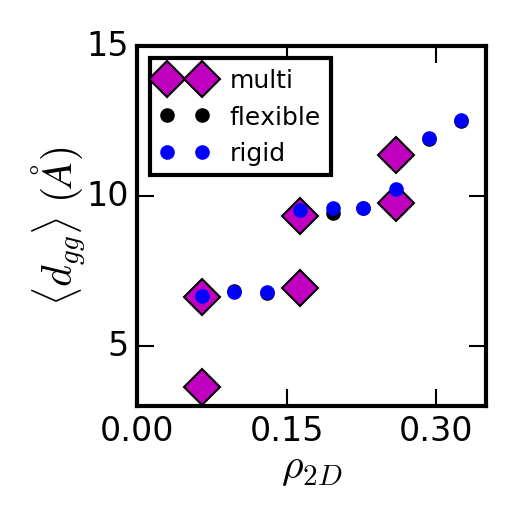
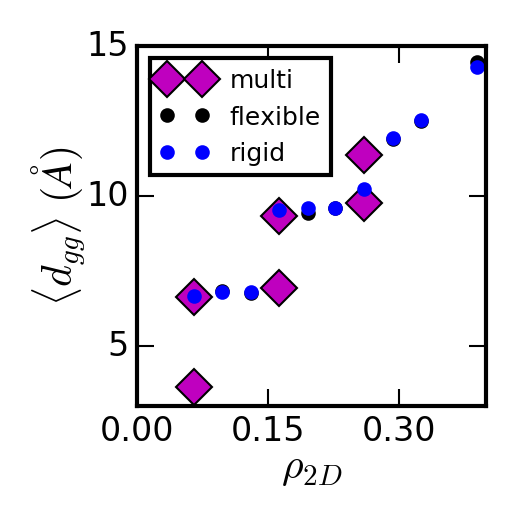
More work on plots etc

diff --git a/python/plot_gr.py b/python/plot_gr.py
@@ -14,12 +14,8 @@ def get_plt_lst(csv_nm):
     sep_siz = int(csv_nm.split("_")[3]); dim = csv_nm.split("_")[2]
     nfct = 1.0
     if sep_siz == 11: cls = [4, 7, 18, 36]
-   #elif sep_siz == 13: cls = [5, 8, 12, 13, 22, 25, 34, 45]
-    elif sep_siz == 14: cls = [2,19,29,38,4,7,8,11,12,23,24,] #27]
-    elif sep_siz == 16: cls = [3,6,7,11,14,19,31,32,40,46]
 
     # flexible
-   #elif sep_siz == 9:  cls = [2,4,15,28,30,32] #old flexible
     elif sep_siz == 91:  
          cls = [2,30]; nfct = 1.4
     elif sep_siz == 92:  
@@ -27,19 +23,19 @@ def get_plt_lst(csv_nm):
    #elif sep_siz == 10: cls = [4, 6, 7, 17, 18,]
    #elif sep_siz == 12: cls = [4,9,10,21,22,23,41] # for multi-layer gr
    #elif sep_siz == 12: cls = [21,41,]
-   #elif sep_siz == 141: cls =[2,7,8] # inner layer of 3L
-   #elif sep_siz == 142: cls =[19,29,38,4,11,23] # layer close to graph
-   #elif sep_siz == 161: cls =[3,11,14] #inner layer of 3/4
-   #elif sep_siz == 162: cls =[6,19,31,46] #layer near graph
 
     # rigid
     elif sep_siz == 9:  cls = [5,15,18,27]
     elif sep_siz == 10: cls = [3,4,5,14,]
    #elif sep_siz == 12: cls = [3,18,19,31,32,7,8,17,20,]
-    elif sep_siz == 141: cls =[2,7,8] # inner layer of 3L
-    elif sep_siz == 142: cls =[19,29,38,4,11,23] # layer close to graph
-    elif sep_siz == 161: cls =[4,10,15,35] #inner layer of 3/4
-    elif sep_siz == 162: cls =[6,7,18,19] #layer near graph
+
+    elif sep_siz == 131 or sep_siz == 141: cls =[5] # inner layer of 3L
+    elif sep_siz == 132 or sep_siz == 142: cls =[3,7] # layer close to graph
+    elif sep_siz == 161: cls =[5,7] #inner layer of 3/4
+    elif sep_siz == 162: cls =[3,9] #layer near graph
+    elif sep_siz == 20:  cls =[3,4,5,7] #inner layer of 3/4
+    elif sep_siz == 201: cls =[5,7] #inner layer of 3/4
+    elif sep_siz == 202: cls =[3,9] #layer near graph
 
     else: cls = [1] # dont have this sep size saved
     return cls, nfct
@@ -56,9 +52,7 @@ def plot_scatter(plt_nm, csvL, sep, ln):
            cls,nfct=get_plt_lst(csvL[i][j].csvfname); dat = csvL[i][j].dat
            fn = csvL[i][j].csvfname.split("_")
            mn += fn[3] + "_"; dn = int(fn[3])
-           cls = []; print(len(dat))
-           for k in range(1,len(dat)):
-               if max(dat[k]) <25.5 and sum(dat[k]) > 0.1: cls.append(k)
+          #cls = list(range(3,len(dat))); 
            ct=0; print(cls)
            for k in cls:
               #ax.plot(dat[0], dat[k], label="x="+csvL[i][j].key[k][1:-2], color = colorL[ct])
@@ -70,8 +64,8 @@ def plot_scatter(plt_nm, csvL, sep, ln):
            
            if dens[dn][2] == "--": dsh = (2,1)
            else:                   dsh = (None,None)
-          #ax.plot(dat[0], np.mean(dat[cls],axis=0)/nfct, dens[dn][2],
-          #        color = dens[dn][1], dashes = dsh, label=lg)
+           ax.plot(dat[0], np.mean(dat[cls],axis=0)/nfct, dens[dn][2],
+                   color = dens[dn][1], dashes = dsh, label=lg)
            ct += 1
     ax.legend(ncol = 3, columnspacing = 0.4,
         fontsize =  5 , handletextpad = 0.2,

diff --git a/python/plot_diffusion.py b/python/plot_diffusion.py
@@ -3,7 +3,7 @@ import numpy as np
 import matplotlib
 import matplotlib.pyplot as plt
 from matplotlib.ticker import *
-MaxNLocator.default_params['nbins']=3
+MaxNLocator.default_params['nbins']=2
 
 from csvfile import CSVFile
 from gauss_fits import skew, double, normal
@@ -19,20 +19,41 @@ def plot_scatter(csv):
     ax.yaxis.set_major_locator(MaxNLocator())
 
     dens  = csv.dat[csv.find_keyword('dens')].flatten(); 
-    rigid = csv.dat[csv.find_keyword('dr_m2_s')].flatten(); 
-    flexb = csv.dat[csv.find_keyword('df_m2_s')].flatten(); 
+    rigid = csv.dat[2].flatten();
+    flexb = csv.dat[1].flatten(); 
+    print("rigid col: {0}\n flex col: {1}".format(csv.key[2],csv.key[1]))
     plt.plot(dens,flexb,'k.--',dashes = (2,1),label = "flexible")
     plt.plot(dens,rigid,'b.--',dashes = (2,1),label = "rigid")
-    # plot calculated tip4p EW D_{||} @ 298 K
-    x = np.linspace(0,1,70); y = np.ones(70)*2.4725
-    plt.plot(x,y, 'r--',dashes=(1.5,0.9),linewidth=0.7,label="bulk,\n298K")
 
-    ax.set_xlim([0.,0.40]);#ax.set_ylim([0,4])
-    ax.set_yscale("log", nonposy='clip')
+    # compressibility
+    if "compressibility" in csv.csvfname:
+        xm = 900; bbox = (1.01, 1.15); texty=xm*0.89
+        ax.set_ylabel(r"$(\langle l_x^2 \rangle - \langle l_x \rangle^2)^{-1}\, (m^{-2})$",fontsize= 8)
+
+    # diffusion coefficients
+    else:
+        xm = 30; bbox = (1.02,1.30); texty = 6.4
+        x = np.linspace(0,1,70); y = np.ones(70)*2.4725
+        plt.plot(x,y, 'r--',dashes=(1.5,0.9),linewidth=0.7,label="bulk,\n298K")
+        ax.set_ylabel(r"$\mathcal{D}_{||} \times 10^9\, (m^2/s)$",fontsize= 10)
+        ax.set_yscale("log", nonposy='clip')
+
+    # PLotting the delineation between layers 1-2 (rho=0.1465), 2-3 (0.265),3-4
+    y=np.linspace(0,xm,70);
+    x1=np.ones(70)*0.1465; x2=np.ones(70)*0.26;x3=np.ones(70)*0.3525
+    plt.plot(x1,y,'--',color=[0.439, 0.502, 0.565],dashes=(2.5,0.9),linewidth=0.7)
+    plt.plot(x2,y,'--',color=[0.439, 0.502, 0.565],dashes=(2.5,0.9),linewidth=0.7)
+    plt.plot(x3,y,'--',color=[0.439, 0.502, 0.565],dashes=(2.5,0.9),linewidth=0.7)
+    plt.text(0.06, texty,'1L',fontsize=10, color = [0.439, 0.502, 0.565])
+    plt.text(0.170,texty, '2L', fontsize=10, color = [0.439, 0.502, 0.565])
+    plt.text(0.270,texty, '3L', fontsize=10, color = [0.439, 0.502, 0.565])
+    plt.text(0.405,texty, '4L', fontsize=10, color = [0.439, 0.502, 0.565])
+
+    ax.set_xlim([0.,0.55]); ax.set_ylim([0,xm])
     ax.legend(ncol = 3, fontsize=6, columnspacing = 0.2,handletextpad= 0.15,
-              bbox_to_anchor = (1.05, 1.30), borderaxespad= 0.2)
+              bbox_to_anchor = bbox, 
+              borderaxespad= 0.2)
     ax.set_xlabel(r"$\rho_{2D}$",fontsize= 10)
-    ax.set_ylabel(r"$\mathcal{D}_{||} \times 10^9\, (m^2/s)$",fontsize= 10)
    #ax.set_ylabel(r"$\rho_{3D} \, (g/cm^3)$",fontsize= 10)
     plt.savefig(csv.csvfname[:-4]+'.png',bbox_inches = 'tight')#,transparent=True)
     plt.close()

diff --git a/paper/confinement.tex b/paper/confinement.tex
@@ -170,7 +170,7 @@ When comparing transitions between layers in the rigid system, there is a distin
 
 \begin{figure}[ht!]
 	\centering
-	\includegraphics[trim={0.35cm 0.25cm 0.05cm 0.05cm},clip,width=0.49\textwidth]{d12_smearing} %
+	\includegraphics[trim={0.15cm 0.05cm 0.05cm 0.05cm},clip,width=0.49\textwidth]{d12_smearing} %
 	\caption{\textit{Snapshots of out-of-plane water layering and heatmap of water location and graphene-graphene separation for bilayer to trilayer transition.} \textbf{Snapshots.} Water-graphene systems as a function of increasing 2D-density, water oxygens are red, graphene carbons are grey and water hydrogens are not displayed for clarity. Images not drawn to size. \textbf{Heatmaps.} 2D histogram of the distance of water to a reference wall versus the graphene-graphene separation distance, warmer colors representing a higher number of observations.}
 	\label{fig:dgg_2_to_3}
 \end{figure}
@@ -258,8 +258,17 @@ Finally, as the density was increased beyond 0.260, less variation in in-plane s
 
 \begin{figure}[ht!]
 	\centering
-    \includegraphics[trim={0.25cm 0.25cm 0.15cm 0.15cm},clip,width=0.3\textwidth]{diffusion_coeff_2D_f_r}
-	\caption{\textit{Comparison of self-diffusion coefficients}. The self-diffusion coefficient as a function of number density for the diffusion parallel to the graphene walls.}
+	\begin{subfigure}[b]{0.28\textwidth}
+    		\includegraphics[trim={0.25cm 0.25cm 0.15cm 0.15cm},clip,width=0.99\textwidth]{diffusion_coeff_2D_f_r}
+		\caption{}
+    		\label{fig:diff}
+   	\end{subfigure}	
+	\begin{subfigure}[b]{0.28\textwidth}
+    		\includegraphics[trim={0.25cm 0.25cm 0.15cm 0.15cm},clip,width=0.99\textwidth]{compressibility}
+		\caption{}
+    		\label{fig:comp}
+   	\end{subfigure}
+	\caption{\textit{Comparison of dynamic properties}. (\protect\subref{fig:diff}) The self-diffusion coefficient as a function of number density for the diffusion parallel to the graphene walls. (\protect\subref{fig:comp}) Fluctuations in the out-of-plane distance as an approximation of system compressibility.}
 	\label{fig:msd}
 \end{figure}
 

diff --git a/python/plot_dist_gg.py b/python/plot_dist_gg.py
@@ -20,10 +20,10 @@ def plot_scatter(csv, sep, ln, itr):
     ax.yaxis.set_major_locator(MaxNLocator())
     
     leg = str(sep)+r'$\AA$ Sep, '+'L='+str(ln)+r'$\AA$'
-    Y = csv.dat[csv.key.index("dgg")]; yr = [5,17]
-   #yy = Y < sep + float(sep)*0.3; Y = Y[yy]
-   #X = csv.dat[csv.key.index("dg1"),yy]/Y.astype(float)
-    X = csv.dat[csv.key.index("dg1")]/Y.astype(float)
+    Y = csv.dat[csv.key.index("dgg")]; yr = [5,17] #REST #[10,20] 
+    yy = Y < sep + float(sep)*0.3; Y = Y[yy]
+    X = csv.dat[csv.key.index("dg1"),yy]/Y.astype(float)
+   #X = csv.dat[csv.key.index("dg1")]/Y.astype(float)
     print(min(Y), max(Y), min(X), max(X))
     plt.hist2d(X, Y, bins=(nbins,nbins), range=([0,1], yr),cmap=plt.get_cmap('plasma'))
     ax.set_xlim([0.2,0.8]); ax.set_ylim(yr)
@@ -37,21 +37,23 @@ def plot_scatter(csv, sep, ln, itr):
     nbins = 50
     y,x = np.histogram(Y, bins=nbins); dx = x[1]-x[0]
     x = x[:-1] + dx/2.;y = y/sum(y.astype(float))/dx
+    print("Dgg maxes: ", x[argrelextrema(y, np.greater)])
     f = plt.figure(1, figsize = (1.0, 1.0))
     ax, ct, leg = f.add_subplot(111), 0, []
     ax.xaxis.set_major_locator(MaxNLocator())
     ax.yaxis.set_major_locator(MaxNLocator())
     matplotlib.rcParams['font.size'] = 5;
     plt.plot(x, y, color = "k")
-    ax.set_xlabel("$d_{gg} \, (\AA$)",fontsize=7);ax.set_xlim([6.,17.])
+    ax.set_xlabel("$d_{gg} \, (\AA$)",fontsize=7);ax.set_xlim([6.,20.])
     ax.set_ylabel("Probability $(1/\AA)$",fontsize=7);ax.set_ylim([0.,2.0])
     plt.savefig(csv.csvfname[:-3]+'g_sep_fit.png',bbox_inches = 'tight',)
     plt.close()
 
+    X = csv.dat[csv.key.index("dg1"),yy]
     y,x = np.histogram(X, bins=nbins); dx = x[1]-x[0]
     x = x[:-1] + dx/2.;y = y/sum(y.astype(float))/dx
     print("X position maxes: ", x[argrelextrema(y, np.greater)])
-    print(x[0],x[-1])
+
     f = plt.figure(1, figsize = (1.0, 1.0))
     ax, ct, leg = f.add_subplot(111), 0, []
     ax.xaxis.set_major_locator(MaxNLocator())

diff --git a/python/dics.py b/python/dics.py
@@ -32,6 +32,8 @@ dens = {
          92  :   ["0.163 2L", colorL[0], "-"],
          121 :   ["0.260 2L", colorL[0], "--"],
          122 :   ["0.260 3L", colorL[0], "-"],
+         131 :   ["0.293 mid", colorL[10], "--"],
+         132 :   ["0.293 out", colorL[10], "-"],
          141 :   ["0.325 mid", colorL[1], "--"],
          142 :   ["0.325 out", colorL[1], "-"],
          161 :   ["0.390 mid", colorL[-4], "--"],

diff --git a/python/plot_dist_gg_all.py b/python/plot_dist_gg_all.py
@@ -28,7 +28,7 @@ def plot_scatter(csv):
     plt.plot(ff, fl, 'mD', label = "multi")
     plt.plot(df, flx, 'k.', label = "flexible")
     plt.plot(dens, rigid, 'b.',label = "rigid")
-    ax.set_xlim([0.,0.35]);ax.set_ylim([3,15])
+    ax.set_xlim([0.,0.40]);ax.set_ylim([3,15])
 
     ax.legend(loc = 2, ncol = 1, columnspacing = 0.4,fontsize=6)
     ax.set_xlabel(r"$\rho_{2D}$",fontsize= 10)
